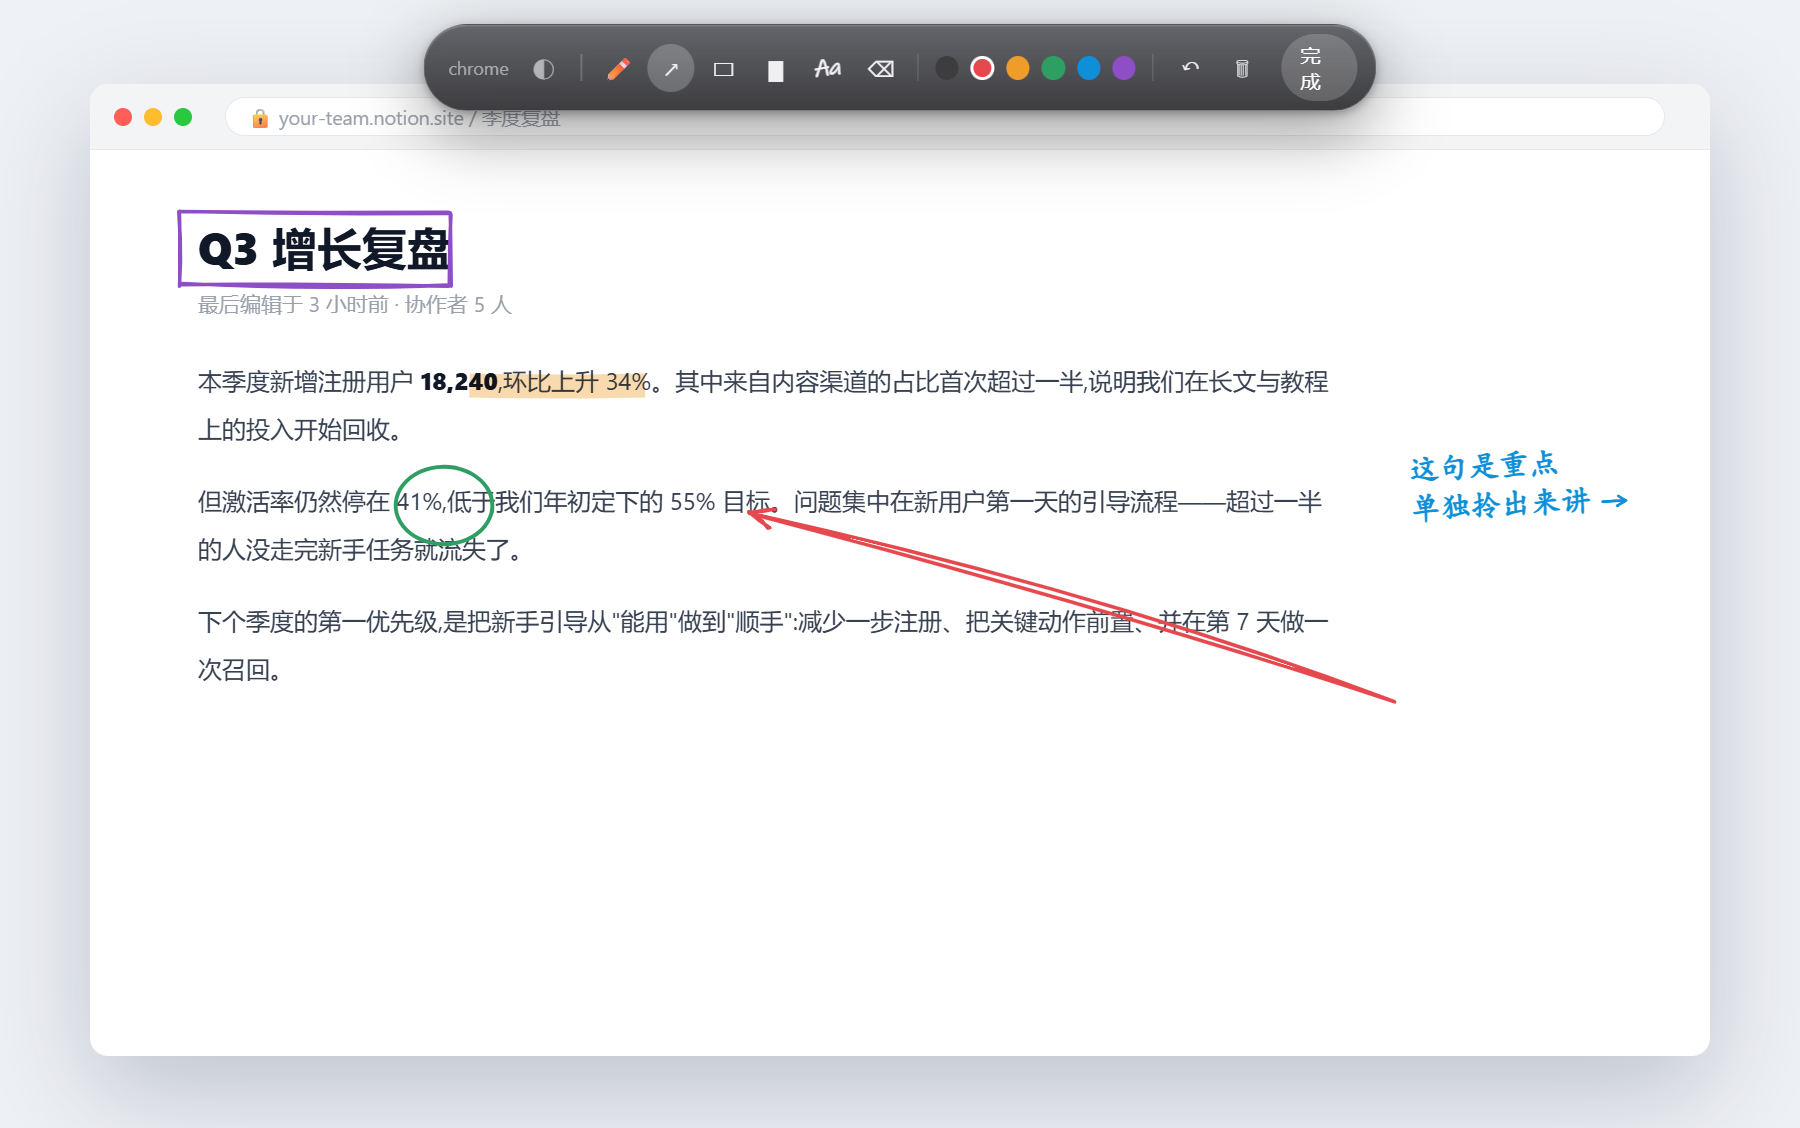
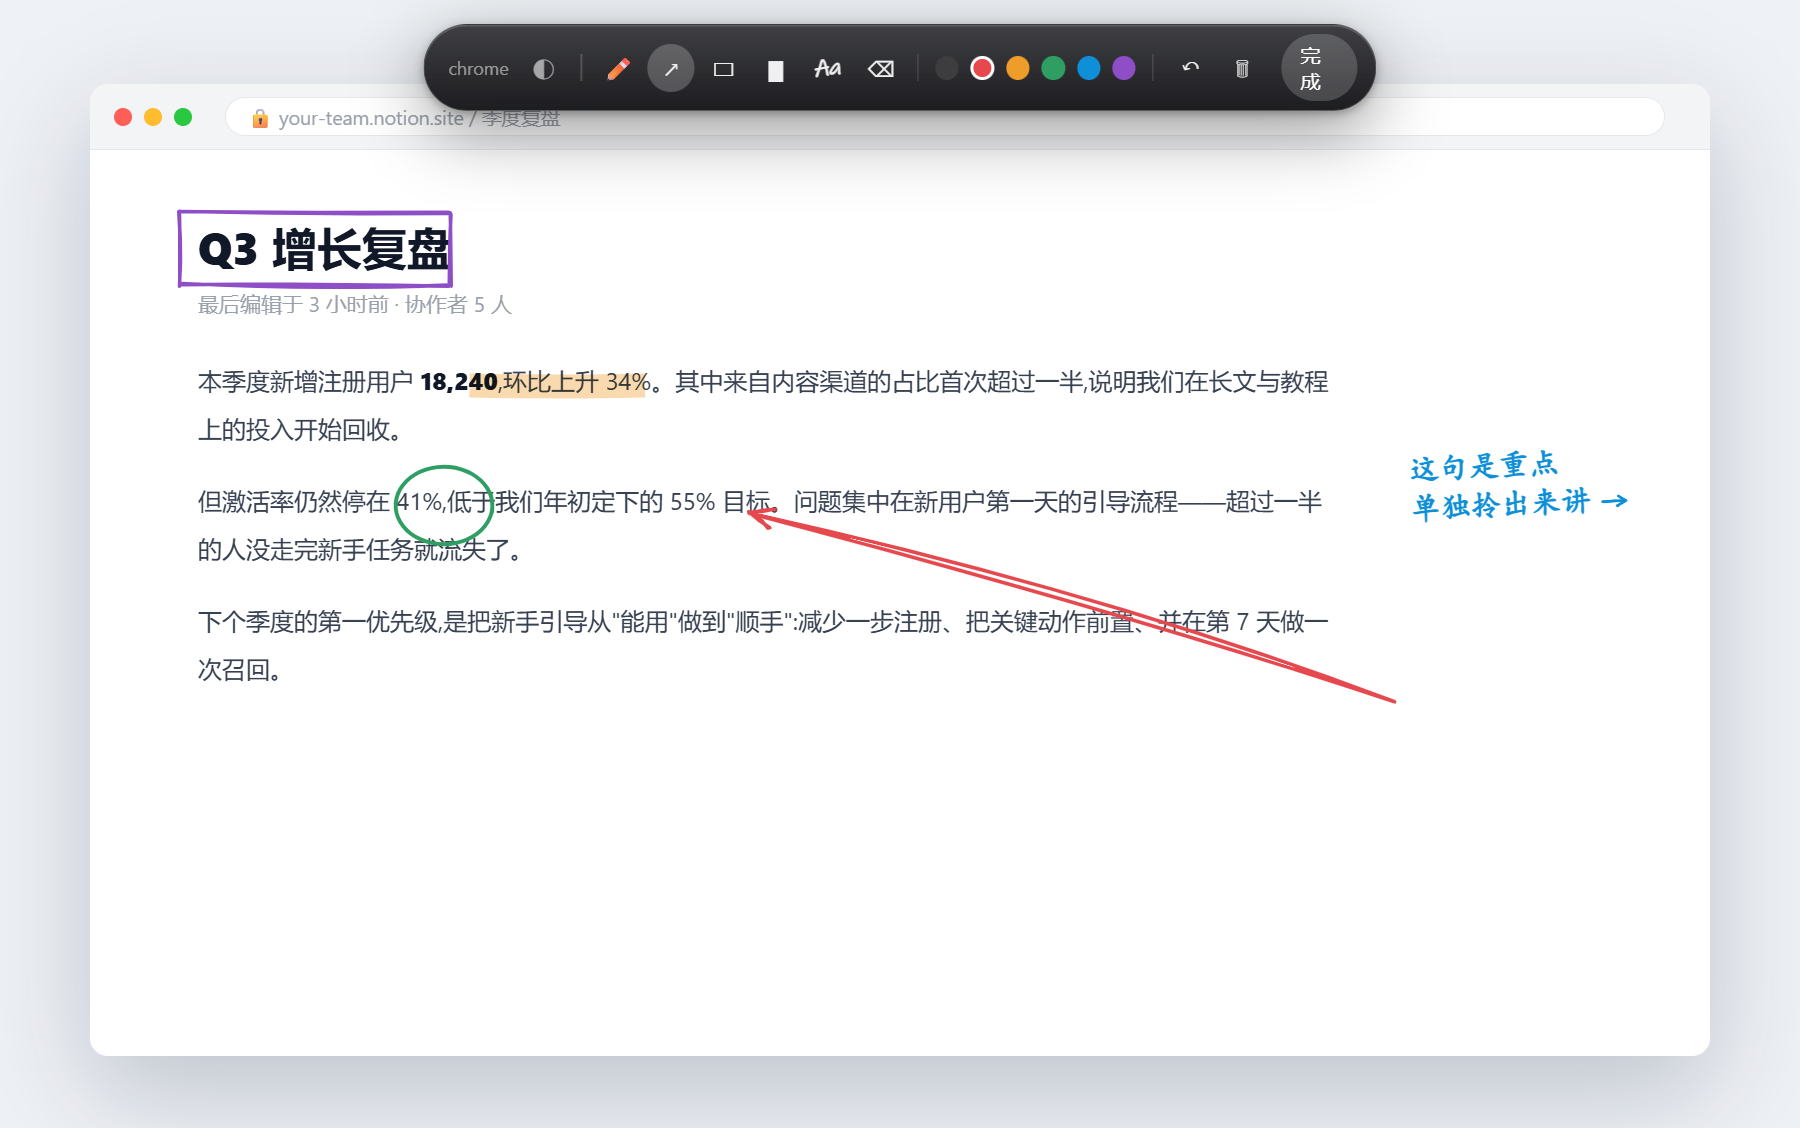
fix: 菜单去掉 backdrop-filter(治"菜单外有玻璃"的透明窗渲染 bug)+ 胶囊 / 菜单改回更不透
- 上一轮把方向搞反了:用户要的是"更不透明",不是更透。工具条 alpha .70 → .90/.96;
  菜单浅 .84 → .985/.965、深 .76 → .965/.94,更实。
- 菜单"外面有莫名其妙的玻璃"= backdrop-filter 在透明窗口上会把整个窗口矩形(含卡片外那圈透明边)
  糊一层玻璃的老 bug;菜单近实心后不需要模糊,直接去掉 backdrop-filter,artifact 随之消失
  (质感靠磨砂颗粒 / 高光 / 阴影保留)。
- 截图 + GIF 全部按新 alpha 重生成并肉眼核对(GPU 恢复后补齐,gif 也已对齐)。

Changed region(s): [[0.2178, 0.0, 0.7778, 0.1241]]

diff --git a/tray-menu/menu.html b/tray-menu/menu.html
@@ -13,10 +13,8 @@
     position: relative; overflow: hidden;
     display: flex; flex-direction: column;
     width: max-content; min-width: 178px;
-    background: linear-gradient(180deg, rgba(255,255,255,.84), rgba(245,246,250,.80));
-    -webkit-backdrop-filter: blur(22px) saturate(1.8);
-    backdrop-filter: blur(22px) saturate(1.8);
-    border: 1px solid rgba(255,255,255,.85);
+    background: linear-gradient(180deg, rgba(255,255,255,.985), rgba(246,247,251,.965));
+    border: 1px solid rgba(255,255,255,.9);
     border-radius: 12px; padding: 5px;
     box-shadow: 0 14px 40px rgba(26,28,38,.24), 0 2px 8px rgba(26,28,38,.14),
                 inset 0 1px 0 rgba(255,255,255,.95), inset 0 0 0 1px rgba(0,0,0,.045);
@@ -52,7 +50,7 @@
   /* 深色:跟随系统主题 */
   @media (prefers-color-scheme: dark) {
     .menu {
-      background: linear-gradient(180deg, rgba(52,52,56,.76), rgba(38,38,42,.72));
+      background: linear-gradient(180deg, rgba(50,50,54,.965), rgba(38,38,42,.94));
       border-color: rgba(255,255,255,.12);
       box-shadow: 0 16px 44px rgba(0,0,0,.55), 0 2px 8px rgba(0,0,0,.4),
                   inset 0 1px 0 rgba(255,255,255,.10), inset 0 0 0 1px rgba(255,255,255,.03);

diff --git a/docs/gen-pop-gif.js b/docs/gen-pop-gif.js
@@ -22,7 +22,7 @@ body{width:100vw;height:100vh;overflow:hidden;position:relative;background:
   linear-gradient(135deg,#eef1f8,#e5ebf6)}
 #bar{position:absolute;left:50%;top:50%;transform:translate(-50%,-50%);
   display:flex;align-items:center;gap:5px;border-radius:999px;padding:11px 20px;overflow:hidden;
-  background:linear-gradient(180deg,rgba(44,44,49,.70),rgba(20,20,23,.82));
+  background:linear-gradient(180deg,rgba(44,44,49,.90),rgba(20,20,23,.96));
   border:1px solid rgba(255,255,255,.14);
   box-shadow:0 14px 40px rgba(0,0,0,.4),0 2px 6px rgba(0,0,0,.28),inset 0 1px 0 rgba(255,255,255,.16);
   animation:pop ${DUR}s cubic-bezier(.16,1,.3,1) forwards;

diff --git a/docs/gen-screenshots.js b/docs/gen-screenshots.js
@@ -35,7 +35,7 @@ text-shadow:0 1px 0 rgba(255,255,255,.6),0 -1px 0 rgba(255,255,255,.6),1px 0 0 r
 
 // 深色玻璃工具条(磨砂 + 顶部高光 + 分层阴影),和 overlay.css 里真实工具条同款质感
 const GLASS_BAR = `
-  background:linear-gradient(180deg,rgba(44,44,49,.70),rgba(20,20,23,.82));
+  background:linear-gradient(180deg,rgba(44,44,49,.90),rgba(20,20,23,.96));
   -webkit-backdrop-filter:blur(18px) saturate(1.4);backdrop-filter:blur(18px) saturate(1.4);
   border:1px solid rgba(255,255,255,.14);
   box-shadow:0 14px 44px rgba(0,0,0,.4),0 2px 6px rgba(0,0,0,.28),inset 0 1px 0 rgba(255,255,255,.16);`;
